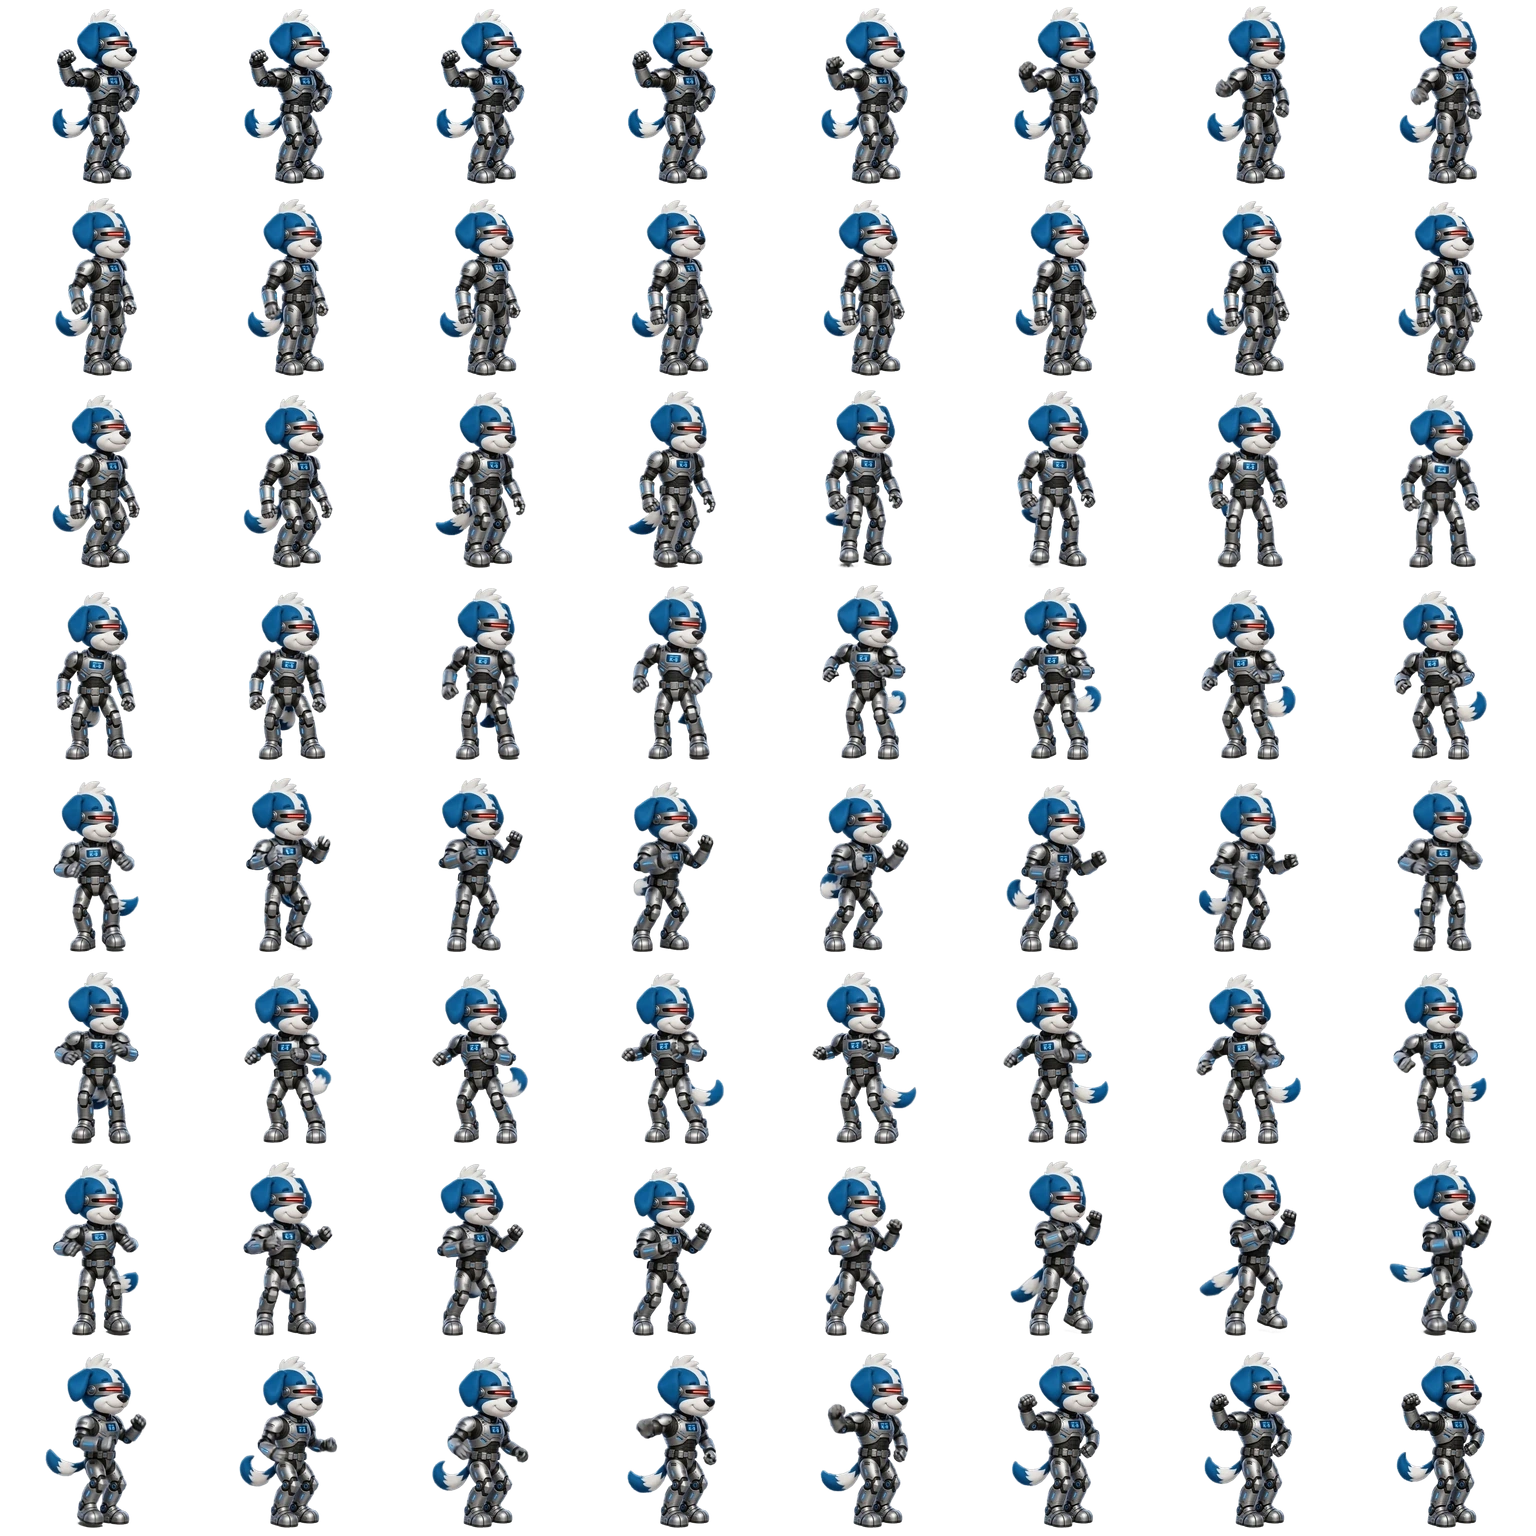
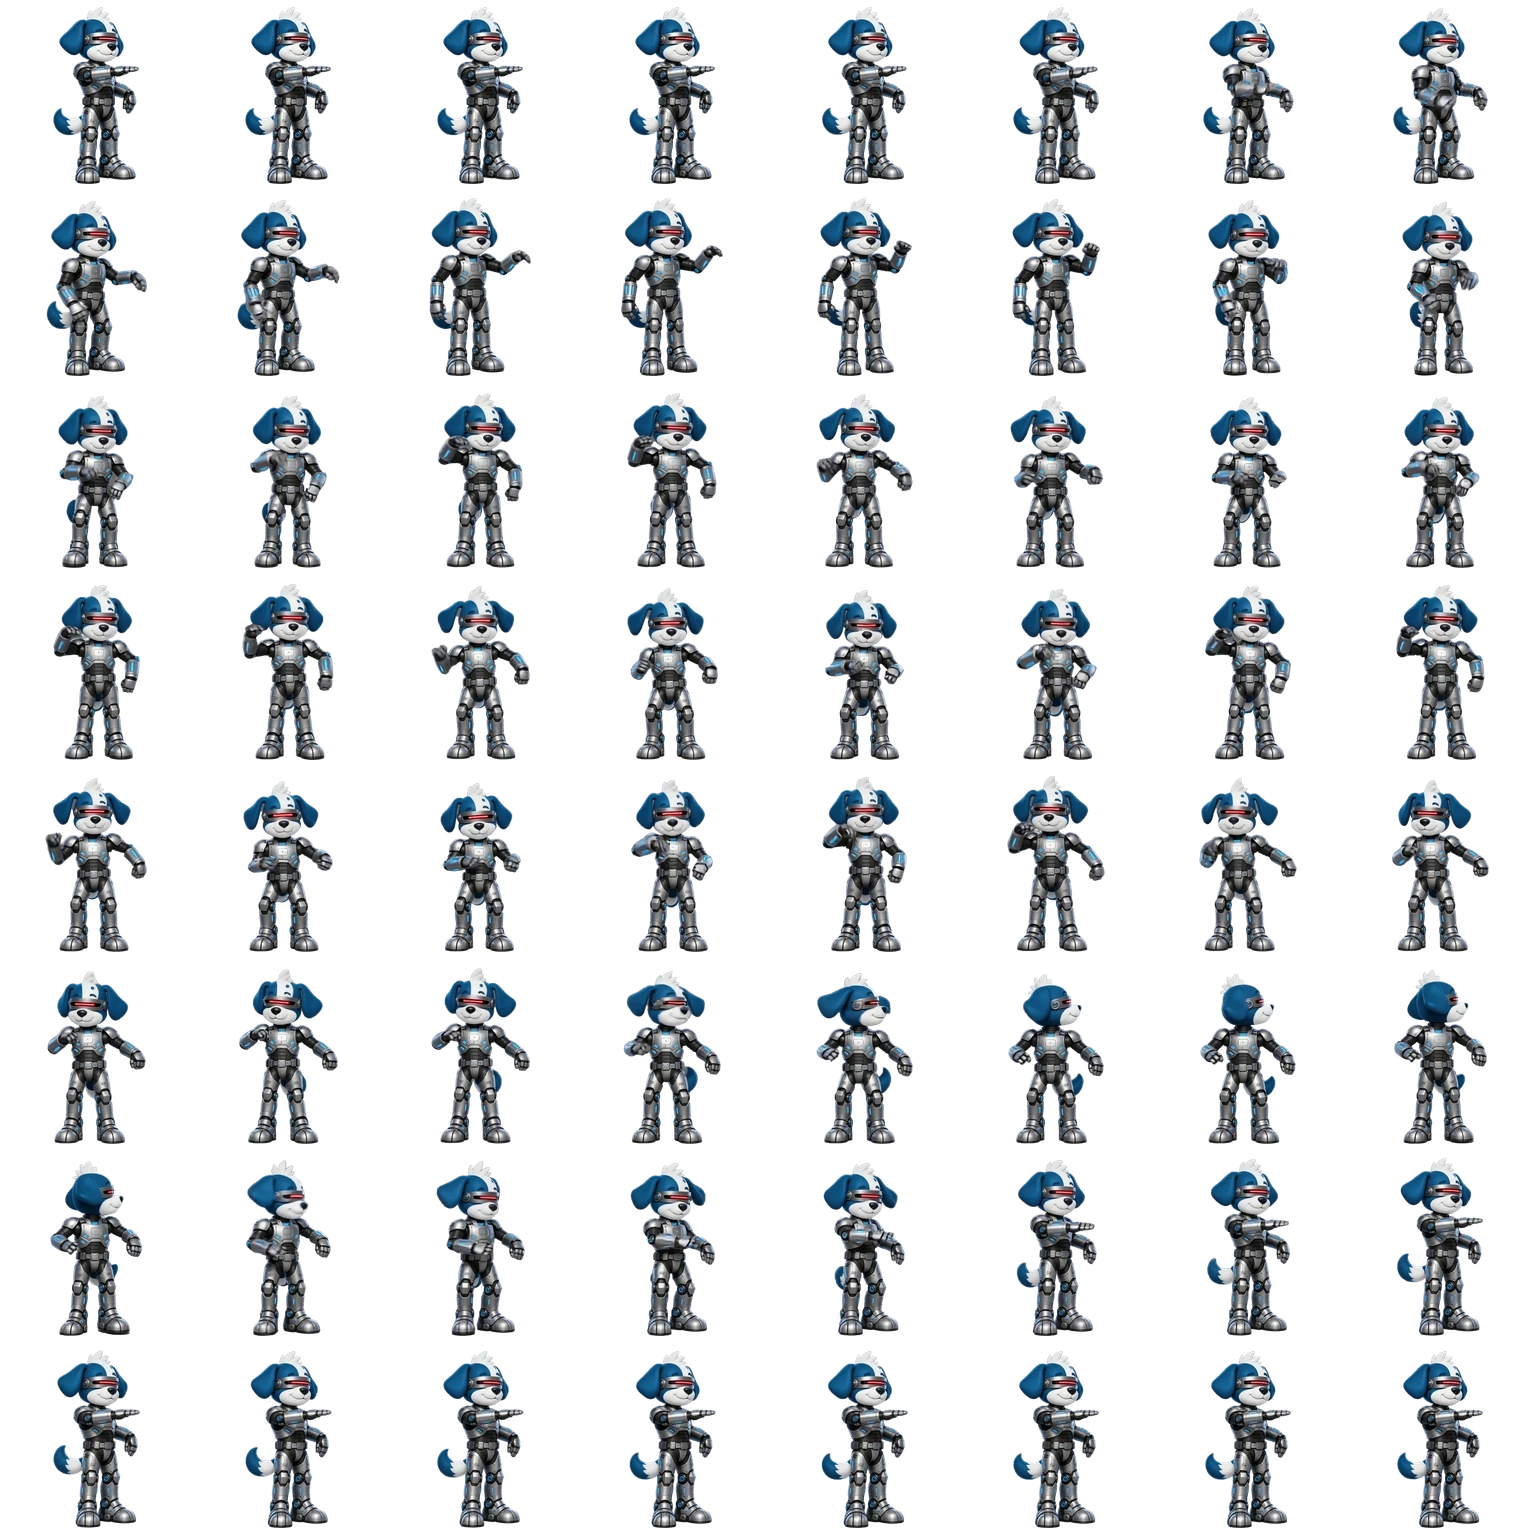
feat: refine Cyberfred jump and robot dance

diff --git a/src/components/fredrun-view.tsx b/src/components/fredrun-view.tsx
@@ -142,8 +142,8 @@ const characterSpriteLayouts: Record<FredRunCharacterId, Record<SpriteKey, Chara
   },
   cyberfred: {
     walk: { source: "/fredrun/cyberfred/walk.webp", columns: 8, frameCount: 64, fps: 16 },
-    jump: { source: "/fredrun/cyberfred/jump.webp", columns: 8, frameCount: 64, fps: 16 },
-    victory: { source: "/fredrun/cyberfred/victory.webp", columns: 8, frameCount: 64, fps: 16 },
+    jump: { source: "/fredrun/cyberfred/jump.webp?v=blue-boosters-v2", columns: 8, frameCount: 64, fps: 16 },
+    victory: { source: "/fredrun/cyberfred/victory.webp?v=robot-dance-v2", columns: 8, frameCount: 64, fps: 16 },
   },
 };
 
@@ -1322,6 +1322,70 @@ function drawPlayerPowerEffects(
   context.restore();
 }
 
+function drawCyberfredJumpThrusters(
+  context: CanvasRenderingContext2D,
+  state: FredRunState,
+  reducedMotion: boolean,
+) {
+  if (state.grounded) return;
+
+  const progress = Math.min(1, Math.max(0, state.jumpElapsed / JUMP_ANIMATION_DURATION));
+  const thrustEnvelope = Math.sin(progress * Math.PI);
+  const flicker = reducedMotion ? 0 : Math.sin(state.elapsed * 48) * 3;
+  const flameLength = 24 + thrustEnvelope * 16 + flicker;
+  const footY = FREDRUN_GROUND_Y - state.playerHeight - 8;
+  const bootOrigins = [
+    { x: FREDRUN_PLAYER_X - 17, y: footY - 2, phase: 0 },
+    { x: FREDRUN_PLAYER_X + 16, y: footY, phase: Math.PI },
+  ];
+
+  context.save();
+  context.globalCompositeOperation = "lighter";
+  for (const boot of bootOrigins) {
+    const pulse = reducedMotion ? 0 : Math.sin(state.elapsed * 62 + boot.phase) * 2;
+    const length = flameLength + pulse;
+    context.save();
+    context.translate(boot.x, boot.y);
+    context.rotate(0.2);
+    context.shadowColor = "rgba(0, 174, 255, 0.95)";
+    context.shadowBlur = 14;
+
+    const outerFlame = context.createLinearGradient(0, 0, -8, length);
+    outerFlame.addColorStop(0, "rgba(224, 251, 255, 0.98)");
+    outerFlame.addColorStop(0.28, "rgba(64, 214, 255, 0.96)");
+    outerFlame.addColorStop(0.72, "rgba(0, 113, 255, 0.78)");
+    outerFlame.addColorStop(1, "rgba(0, 71, 255, 0)");
+    context.fillStyle = outerFlame;
+    context.beginPath();
+    context.moveTo(-6, 0);
+    context.quadraticCurveTo(-12, length * 0.42, -8, length);
+    context.quadraticCurveTo(1, length * 0.58, 6, 0);
+    context.closePath();
+    context.fill();
+
+    context.shadowBlur = 5;
+    context.fillStyle = "rgba(235, 255, 255, 0.92)";
+    context.beginPath();
+    context.moveTo(-2.5, 1);
+    context.quadraticCurveTo(-5, length * 0.32, -3, length * 0.62);
+    context.quadraticCurveTo(2, length * 0.36, 2.5, 1);
+    context.closePath();
+    context.fill();
+
+    if (!reducedMotion) {
+      context.fillStyle = "rgba(87, 221, 255, 0.82)";
+      for (let spark = 0; spark < 3; spark += 1) {
+        const travel = (state.elapsed * (45 + spark * 9) + spark * 11) % Math.max(1, length);
+        context.beginPath();
+        context.arc(-5 - spark * 3, 8 + travel, 1.8 - spark * 0.35, 0, Math.PI * 2);
+        context.fill();
+      }
+    }
+    context.restore();
+  }
+  context.restore();
+}
+
 function drawHitFeedback(
   context: CanvasRenderingContext2D,
   state: FredRunState,
@@ -1408,6 +1472,9 @@ function renderFredRun(
 
   if (images) {
     drawPlayerPowerEffects(context, state, reducedMotion);
+    if (characterId === "cyberfred") {
+      drawCyberfredJumpThrusters(context, state, reducedMotion);
+    }
     const layouts = characterSpriteLayouts[characterId];
     const sprite = activeSprite(state, layouts);
     const layout = layouts[sprite.key];

diff --git a/src/lib/fredrun-ui.test.ts b/src/lib/fredrun-ui.test.ts
@@ -616,9 +616,9 @@ describe("Fredrun UI surface", () => {
         sourceFrameCount: 64,
         firstFrameQuality: "pro",
         backgroundRemoval: "ultra",
-        creditsUsed: 39,
+        creditsUsed: 65,
         shippedCreditsUsed: 39,
-        discardedDraftCredits: 0,
+        discardedDraftCredits: 26,
         sound: false,
       },
     });
@@ -651,8 +651,20 @@ describe("Fredrun UI surface", () => {
     ), 0);
     expect(totalBytes).toBeLessThanOrEqual(3 * 1024 * 1024);
     expect(viewSource).toContain('walk: { source: "/fredrun/cyberfred/walk.webp", columns: 8, frameCount: 64, fps: 16 }');
-    expect(viewSource).toContain('jump: { source: "/fredrun/cyberfred/jump.webp", columns: 8, frameCount: 64, fps: 16 }');
-    expect(viewSource).toContain('victory: { source: "/fredrun/cyberfred/victory.webp", columns: 8, frameCount: 64, fps: 16 }');
+    expect(viewSource).toContain('jump: { source: "/fredrun/cyberfred/jump.webp?v=blue-boosters-v2", columns: 8, frameCount: 64, fps: 16 }');
+    expect(viewSource).toContain('victory: { source: "/fredrun/cyberfred/victory.webp?v=robot-dance-v2", columns: 8, frameCount: 64, fps: 16 }');
+    expect(cyberfredManifest.atlas.animations.jump).toMatchObject({
+      animationName: "Blue Booster Jump",
+      facingDirection: "right",
+      runtimeEffect: "electric-blue-boot-thrusters",
+    });
+    expect(cyberfredManifest.atlas.animations.victory).toMatchObject({
+      animationName: "Cyberfred Robot Dance",
+      danceStyle: "classic-robot-dance",
+      loop: true,
+    });
+    expect(viewSource).toContain("function drawCyberfredJumpThrusters");
+    expect(viewSource).toContain('characterId === "cyberfred"');
     expect(profileSource).toContain('export const FREDRUN_CYBERFRED_PRICE = 2_000;');
     expect(profileSource).toContain('name: "Cyberfred"');
     expect(profileSource).toContain('price: FREDRUN_CYBERFRED_PRICE');
